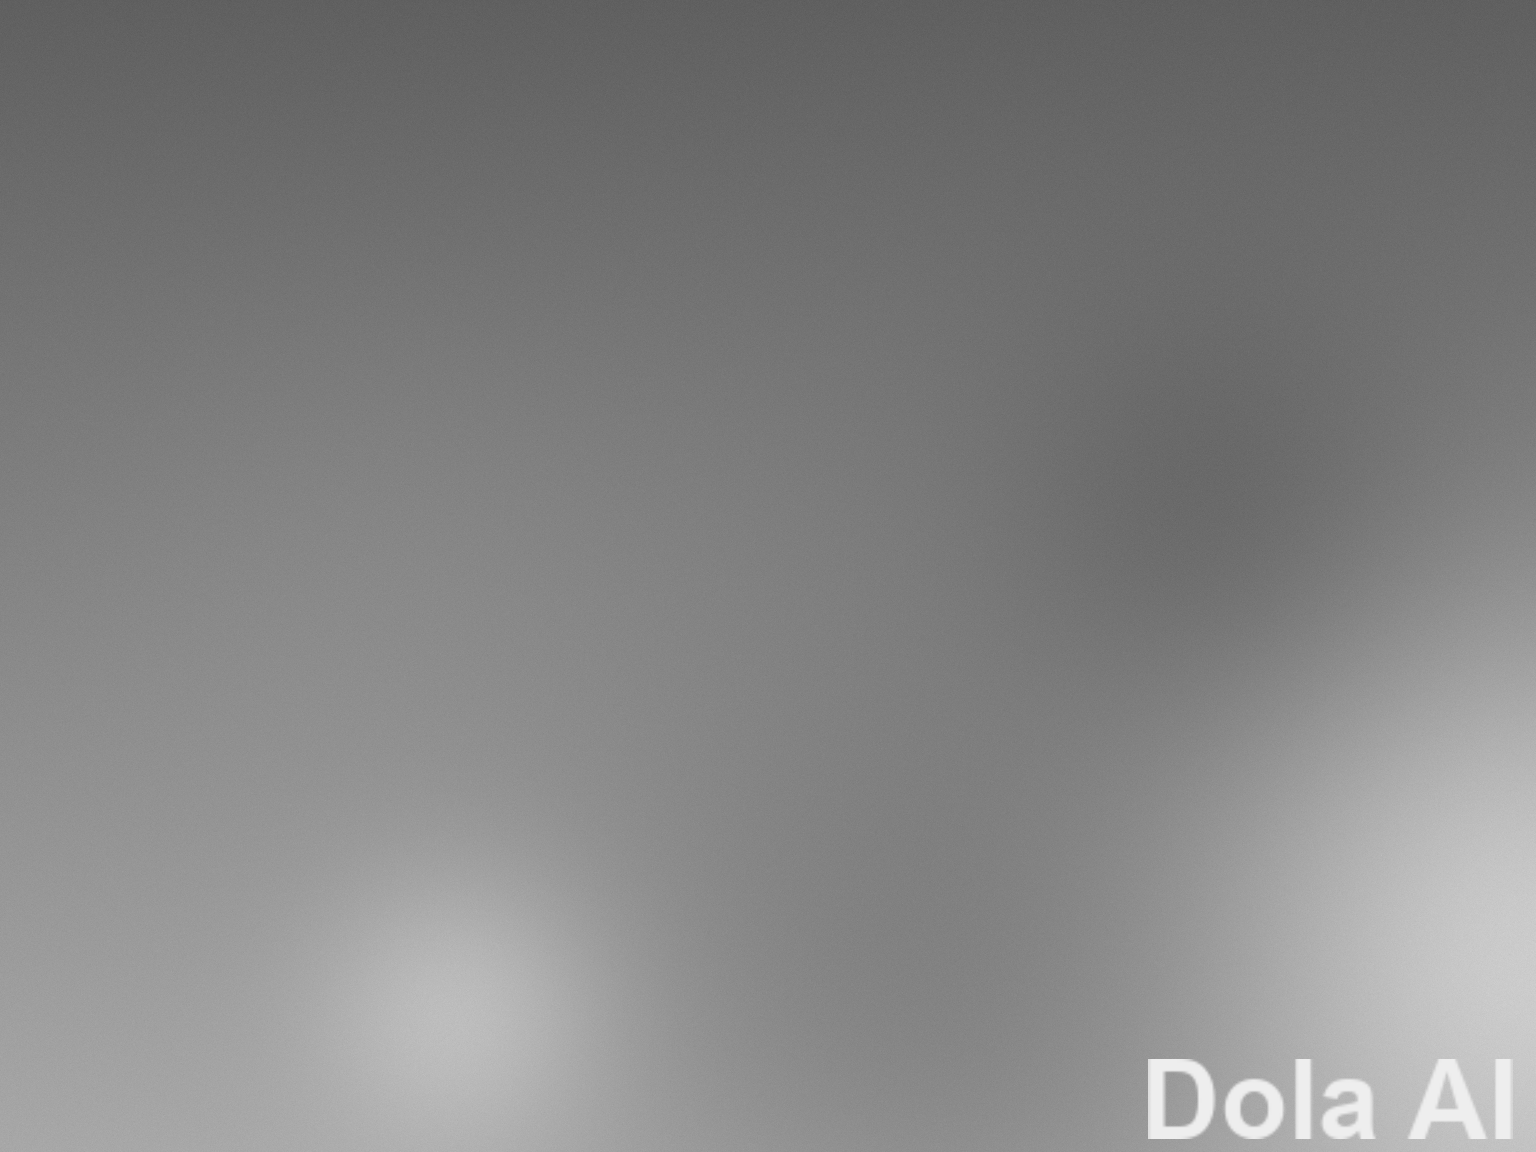
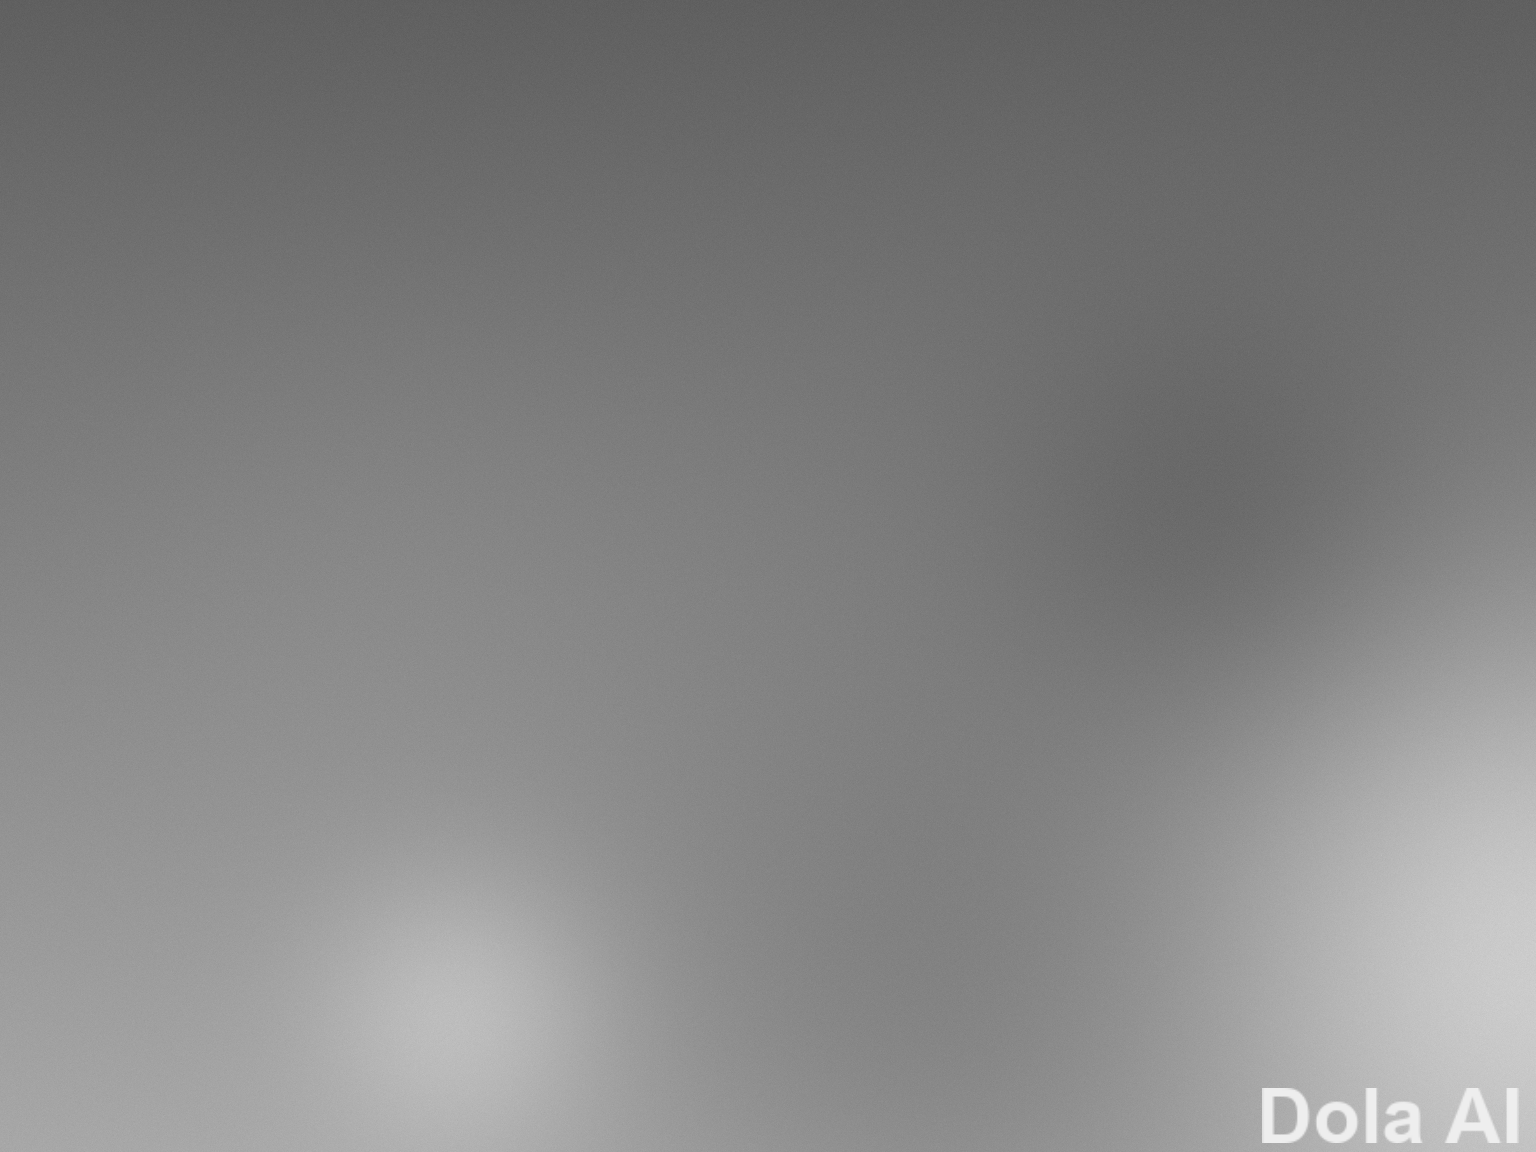
Fix Dola image detection calibration

Changed region(s): [[0.75, 0.9062, 1.0, 1.0]]

diff --git a/src/remove_ai_watermarks/dola_engine.py b/src/remove_ai_watermarks/dola_engine.py
@@ -15,27 +15,25 @@ from remove_ai_watermarks._text_mark_engine import TextMarkConfig, TextMarkEngin
 if TYPE_CHECKING:
     from numpy.typing import NDArray
 
-# The sample is 1024x575: the visible wordmark is about 103x22 px and sits
-# 35 px from the right edge / 12 px from the bottom edge. Keep the locate box
-# generous enough for rerasterization, while using short-side scaling.
-WM_WIDTH_FRAC = 0.34
+WM_WIDTH_FRAC = 0.35
 WM_HEIGHT_FRAC = 0.11
-MARGIN_RIGHT_FRAC = 0.02
-MARGIN_BOTTOM_FRAC = 0.012
+MARGIN_RIGHT_FRAC = 0.015
+MARGIN_BOTTOM_FRAC = 0.008
 
 # Dola uses a light, low-saturation gray overlay like other AIGC marks.
 MAX_SATURATION = 55
 LOGO_MIN_LUMA = 145
 TOPHAT_DELTA = 10
 
-# Conservative gate: the repository's Dola cohort has weak separation. Strict
-# only avoids provenance turning unrelated bottom-right texture into a fill.
 DETECT_MIN_COVERAGE = 0.04
-DETECT_NCC_THRESHOLD = 0.52
+# Fixture rasterization scores ~0.89 and the supplied real sample ~0.83.
+# Keep a margin above the measured solid-blob false-positive (~0.25).
+DETECT_NCC_THRESHOLD = 0.28
 
 # Asset is 146x32 (Arial Bold ``Dola AI``), scaled against short side.
-_ALPHA_WIDTH_FRAC = 0.254
-_ALPHA_HEIGHT_FRAC = 0.0557
+# Measured on the user sample (1024x575): w=103 h=22 -> 0.179 / 0.0383 of short side.
+_ALPHA_WIDTH_FRAC = 0.179
+_ALPHA_HEIGHT_FRAC = 0.0383
 
 _CONFIG = TextMarkConfig(
     name="Dola AI",
